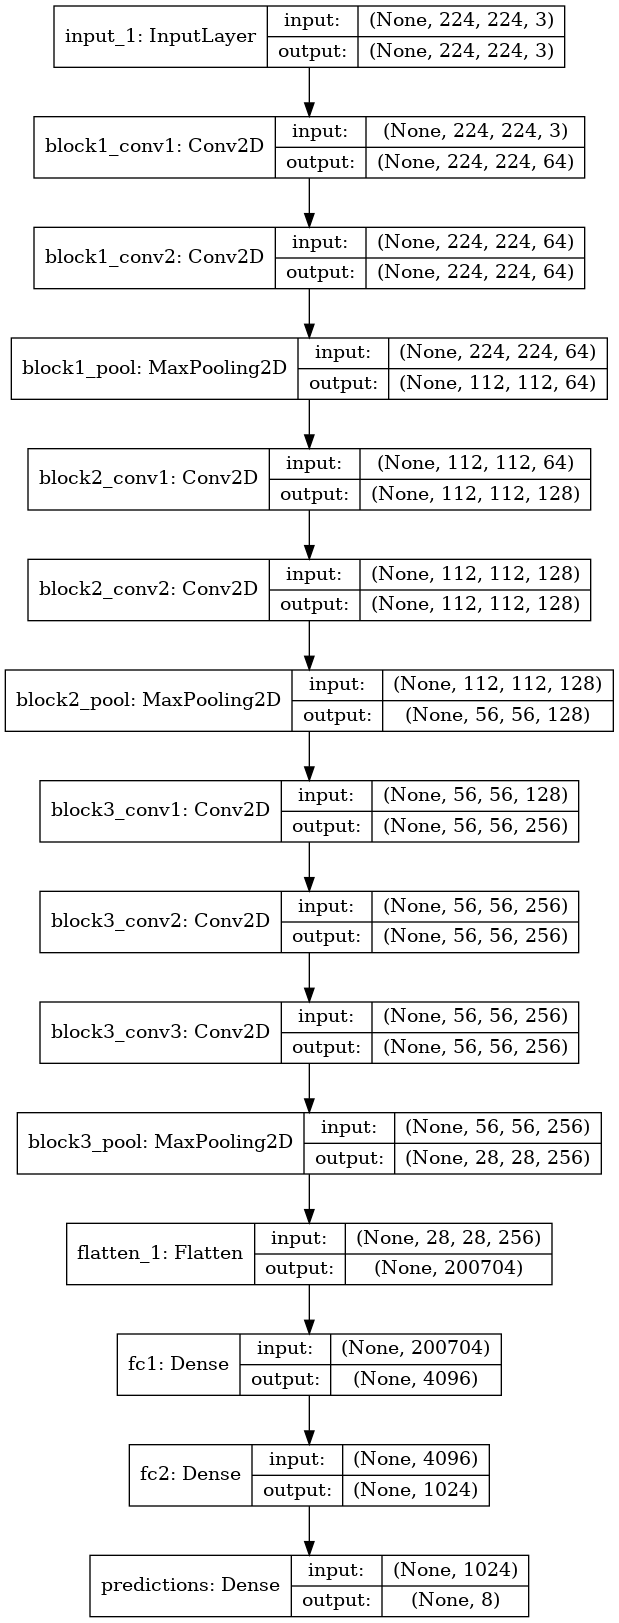
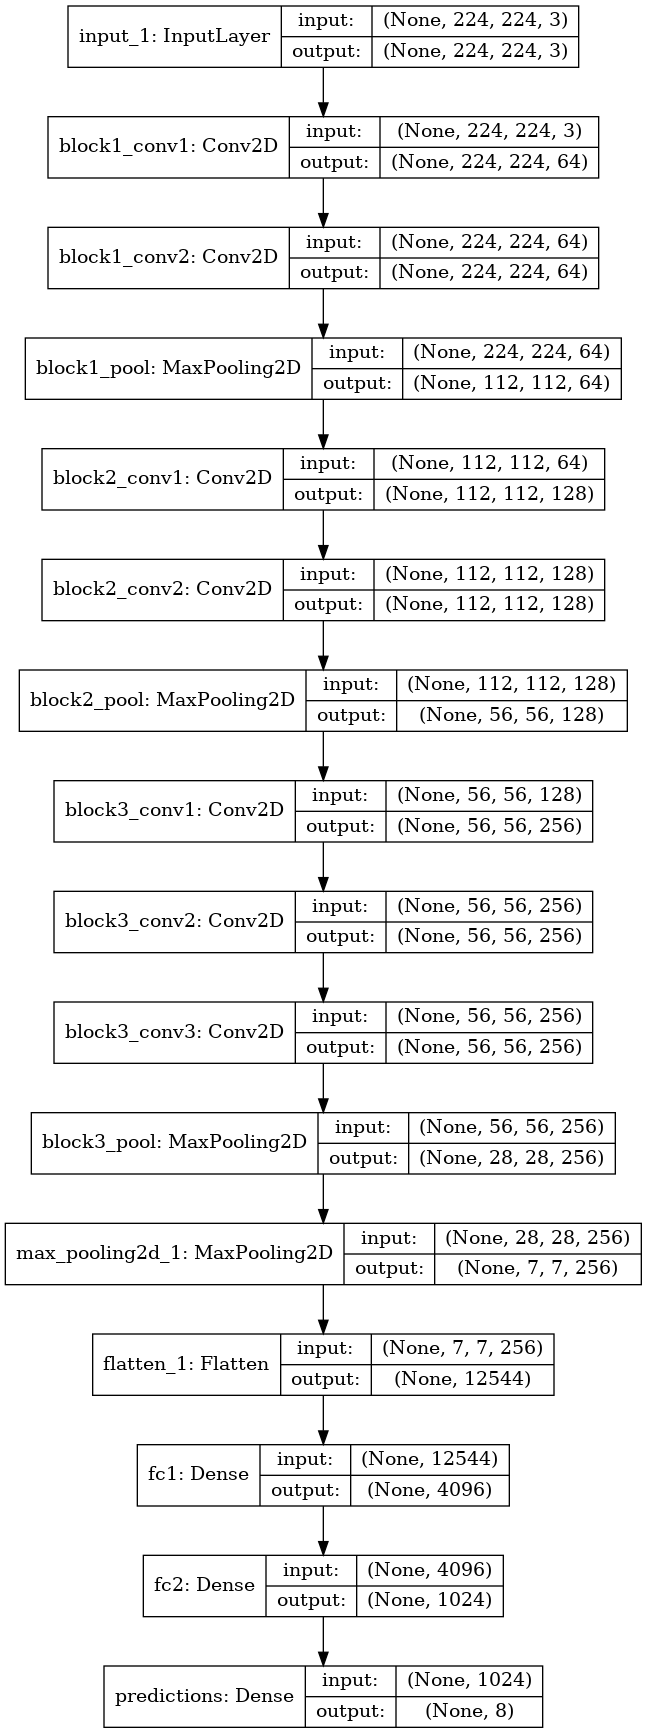
Add a pooling to reduce number of parameters as an input of a FC

Changed region(s): [[0.0, 0.0, 1.0, 1.0]]

diff --git a/source/session4.py b/source/session4.py
@@ -8,6 +8,7 @@ from keras.applications.vgg16 import VGG16
 from keras.layers import Dense
 from keras.layers import Dropout
 from keras.layers import Flatten
+from keras.layers import MaxPooling2D
 from keras.models import Model
 from keras.utils.vis_utils import plot_model as plot
 import matplotlib.pyplot as plt
@@ -96,9 +97,10 @@ def modify_model_before_block4(base_model):
         layer.trainable = False
 
     x = base_model.layers[-13].output
+    x = MaxPooling2D(pool_size=(4, 4), padding='valid')(x)
     x = Flatten()(x)
-    x = Dense(4096, activation='ReLU', name='fc1')(x)
-    x = Dense(1024, activation='ReLU', name='fc2')(x)
+    x = Dense(4096, activation='relu', name='fc1')(x)
+    x = Dense(1024, activation='relu', name='fc2')(x)
     x = Dense(8, activation='softmax', name='predictions')(x)
 
     model = Model(inputs=base_model.input, outputs=x)
@@ -118,10 +120,11 @@ def modify_model_before_block4_with_dropout(base_model):
         layer.trainable = False
 
     x = base_model.layers[-13].output
+    x = MaxPooling2D()(x)
     x = Flatten()(x)
-    x = Dense(4096, activation='ReLU', name='fc1')(x)
+    x = Dense(4096, activation='relu', name='fc1')(x)
     x = Dropout(0.5)(x)
-    x = Dense(1024, activation='ReLU', name='fc2')(x)
+    x = Dense(1024, activation='relu', name='fc2')(x)
     x = Dropout(0.5)(x)
     x = Dense(8, activation='softmax', name='predictions')(x)
 
@@ -134,6 +137,7 @@ def modify_model_before_block4_with_dropout(base_model):
     model.compile(loss='categorical_crossentropy',
                   optimizer='adadelta',
                   metrics=['accuracy'])
+    die()
     return model
 
 
@@ -190,7 +194,6 @@ def main():
     model = modify_model_before_block4(base_model)
     for layer in model.layers:
         logger.debug([layer.name, layer.trainable])
-    die()
     # Get train, validation and test dataset
     # preprocessing_function=preprocess_input,
     # data_generator = ImageDataGenerator(**DataGeneratorConfig.DEFAULT)

diff --git a/source/data_generator.py b/source/data_generator.py
@@ -20,7 +20,7 @@ class DataGenerator(object):
         If not done it uses the DataGeneratorConfig.DEFAULT
         """
         self.data_generator = ImageDataGenerator(**config)
-        self._fit('data/train/')
+        self._fit('../data/train/')
 
     def _fit(self, train_path):
         """ Fits the datagenerator if needed """
